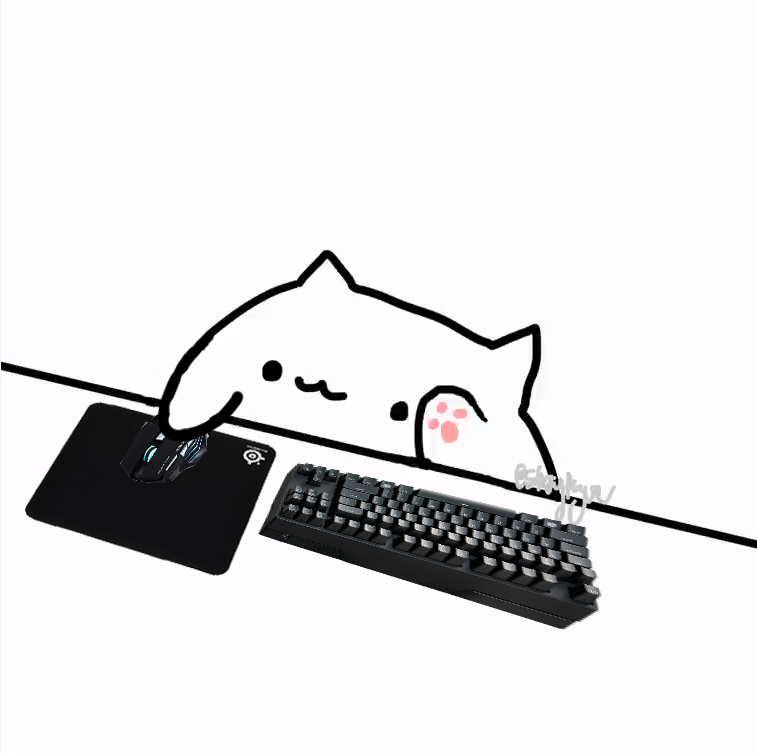
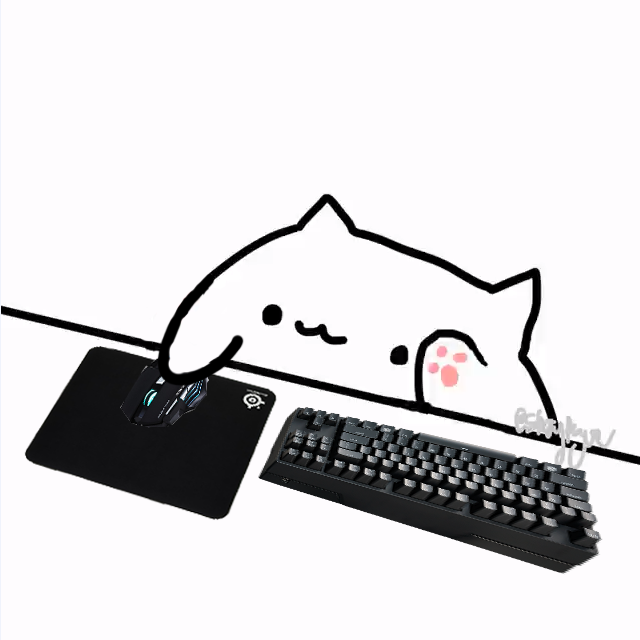
Changed image resolution to 640x640, fixed wrong version display and added a small window option

Changed region(s): [[0.0, 0.2812, 1.0, 0.9062], [0.75, 0.5625, 0.7812, 0.5938]]

diff --git a/osu!cat.py b/osu!cat.py
@@ -6,6 +6,7 @@ from win32gui import GetCursorPos
 from math import sqrt
 from time import sleep
 
+version = 'v1.1.1'
 
 def close_window():
     root.withdraw()
@@ -15,7 +16,7 @@ def close_window():
 
 root = Tk()
 root.resizable(width=False, height=False)
-root.title('osu!cat v1.0.0')
+root.title('osu!cat ' + version)
 root.protocol('WM_DELETE_WINDOW', close_window)
 
 screen_x = root.winfo_screenwidth()
@@ -73,13 +74,13 @@ def find_frame(cx, cy, f):
 
     return best_d[1]
 
-print('Bongo Cat Live Cam v1.0.0')
+print('Bongo Cat Live Cam ' + version)
 print('----------------------------------------------------------------------------------------------------------------------')
-print('Disclaimer: There is a high probability you will experience som bugs or that the program will now work at all.\n'
-      'This program will also most likely not work on resolutions where the height is bigger than the width, it will most\n'
-      'likely use much of your cpu and there is no support for custom ingame resolutions. You have been warned.')
+print('Disclaimer: There is a high probability you will experience some bugs or that the program will now work at all.\n'
+      'This program will also most likely not work on resolutions where the height is bigger than the width and there\n'
+      'is no support for custom ingame resolutions or sensitivities. You have been warned.')
 print('----------------------------------------------------------------------------------------------------------------------')
-print('Before you can use this program you need to configure key 1, key 2 and tablet/mouse')
+print('Before you can use this program you need to configure key 1, key 2, tablet/mouse and window size')
 while True:
     k1 = input('Key 1: ')
     k2 = input('Key 2: ')
@@ -100,21 +101,31 @@ while True:
     else:
         print('Invalid input')
 
+print('(Type 0 for small and 1 for standard)')
+while True:
+    i_type = input('Window size: ')
+    if i_type == '0':
+        size = (320, 320)
+        break
+    elif i_type == '1':
+        size = (640, 640)
+        break
+    else:
+        print('Invalid input')
+
 print('All done! To reconfigure, just close and relaunch the application')
 
 #preload all images
 hit_images = {
-    1: PIL.Image.open("cat/KeyTapHand.png"),
-    2: PIL.Image.open("cat/KeyTapHand2.png")
+    1: PIL.Image.open("cat/KeyTapHand1.png").resize(size),
+    2: PIL.Image.open("cat/KeyTapHand2.png").resize(size)
 }
 cursor_images = { }
 for key in frame_points.keys():
-    cursor_images[key] = PIL.Image.open("cat/{0}/Hand {1}.png".format(cursor_device, key))
-
-#l_xyf = StringVar()  # Label string for x and y cursor position + current base frame
+    cursor_images[key] = PIL.Image.open("cat/{0}/Hand {1}.png".format(cursor_device, key)).resize(size)
 
 default_img = PIL.ImageTk.PhotoImage(cursor_images['A'])
-image_label = Label(root, image=default_img) # ,textvariable=l_xyf, compound=CENTER)
+image_label = Label(root, image=default_img)
 image_label.image = default_img
 image_label.pack()
 
@@ -159,5 +170,4 @@ while LOOP:
     image_label.configure(image=n_base_img)
     image_label.image = n_base_img
 
-    #l_xyf.set('x: ' + str(x) + ' ' + 'y: ' + str(y) + ' ' + 'frame: ' + f)  # Updates x, y and frame values
     root.update()
